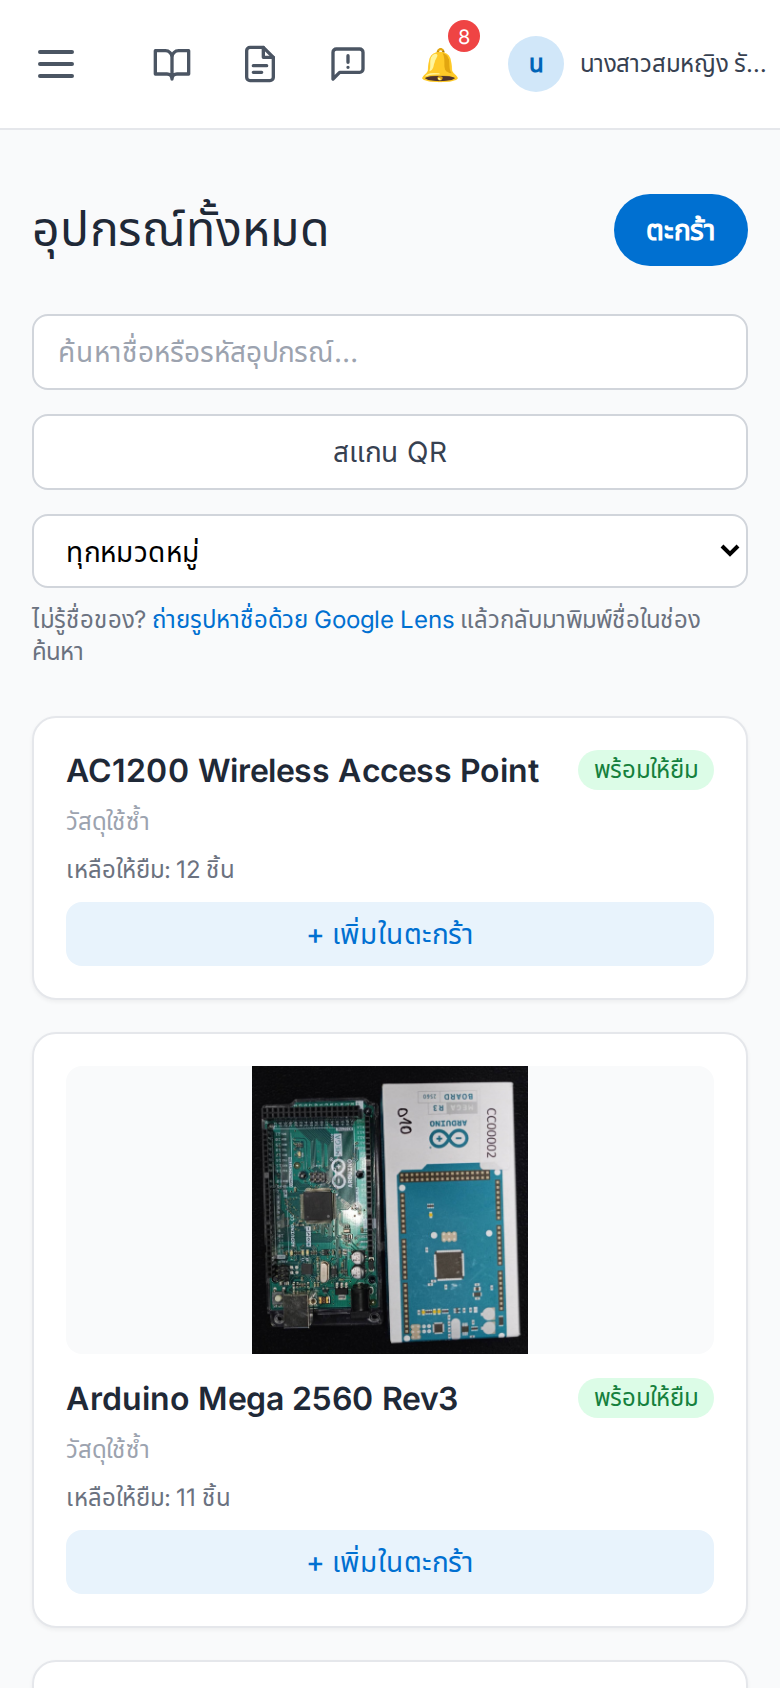
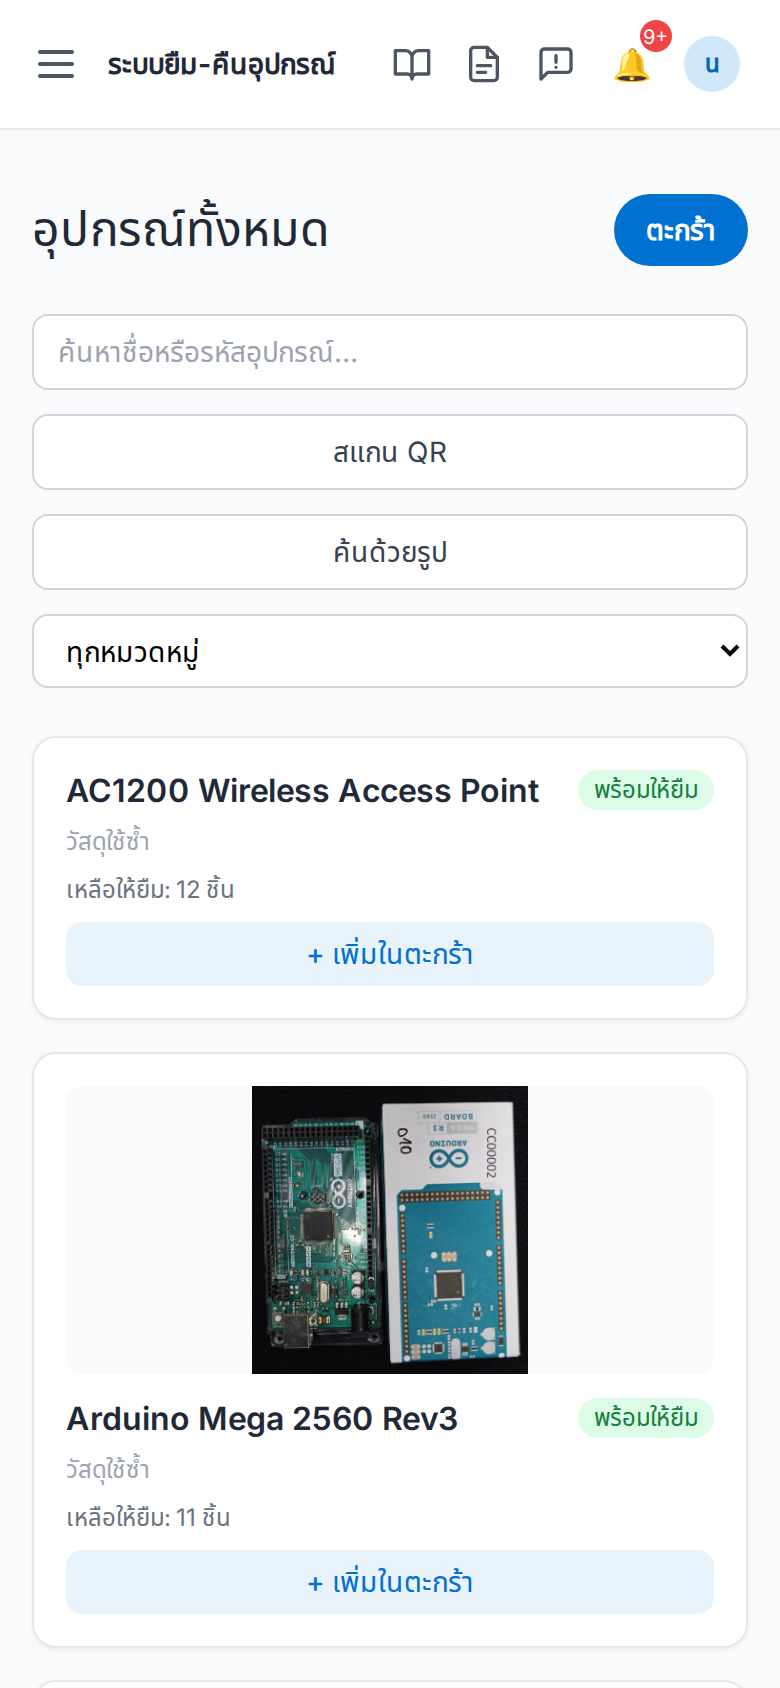
docs(manual): หัวข้อค้นด้วยรูปในคู่มือผู้ยืม + ภาพหน้ารายการอุปกรณ์ใหม่ · ตัดขีดยาวในข้อความหน้าต่างค้นด้วยรูป
Claude-Session: https://claude.ai/code/session_011g6Psu82xey8mGRJvxNfKM

diff --git a/frontend/public/manual/borrower.html b/frontend/public/manual/borrower.html
@@ -100,13 +100,20 @@ h2, h3 { break-after: avoid; }
 <li>ชื่อบัญชี กดเพื่อเปิดหน้าโปรไฟล์</li></ul>
 <p>บนมือถือเมนูถูกซ่อนไว้ ให้กดปุ่มสามขีดที่มุมซ้ายบนเพื่อเปิดเมนู</p></div>
 </section><section class="sec" id="s5"><h2>5. ค้นหาและดูรายละเอียดอุปกรณ์</h2>
-<div class="keep"><p>เมนู <b>อุปกรณ์</b> แสดงอุปกรณ์ทั้งหมดที่ยืมได้ หาของที่ต้องการได้ 3 วิธี</p>
+<div class="keep"><p>เมนู <b>อุปกรณ์</b> แสดงอุปกรณ์ทั้งหมดที่ยืมได้ หาของที่ต้องการได้ดังนี้</p>
 <ol><li>พิมพ์ชื่อ รุ่น รหัสอุปกรณ์ หรือเลขห้องในช่องค้นหา หรือเลือกหมวดหมู่และประเภทเพื่อกรองรายการ</li>
 <li>กดปุ่ม <b>สแกน QR</b> แล้วใช้กล้องมือถือสแกนป้าย QR ที่ติดอยู่บนตัวอุปกรณ์ ระบบจะเปิดหน้าของอุปกรณ์ชิ้นนั้นให้ทันที
 (ถ้ากล้องไม่เปิด ดูหัวข้อ 12)</li>
+<li>ถ้าไม่รู้ชื่อของ กดปุ่ม <b>ค้นด้วยรูป</b> แล้วกด <b>ถ่ายรูป</b> หรือ <b>เลือกรูปจากเครื่อง</b> ระบบจะขึ้น 5 รุ่นในคลังที่ใกล้เคียงที่สุด
+เรียงจากใกล้สุด กดรุ่นที่ใช่เพื่อเปิดหน้ารายละเอียด ถ้าไม่มีรุ่นไหนตรงเลย ของชิ้นนั้นอาจไม่มีในคลัง
+ระบบใช้รูปที่ถ่ายเพื่อค้นหาอย่างเดียวและไม่เก็บไว้</li>
 <li>กดที่ชื่อหรือรูปอุปกรณ์เพื่อเปิดหน้ารายละเอียด ซึ่งบอกจำนวนที่ยังเหลือให้ยืม ห้องที่เก็บ
 ค่าปรับต่อวันถ้าคืนช้า และถ้ามีคนยืมอยู่ จะบอกว่าจะคืนวันไหน</li></ol></div>
 <figure><a href="img/b05_equipment_list.webp" target="_blank" title="กดเพื่อดูภาพขนาดเต็ม"><img src="img/b05_equipment_list.webp"></a><figcaption>หน้ารายการอุปกรณ์ กรอบแดงคือปุ่มเพิ่มลงตะกร้า</figcaption></figure>
+<div class="keep"><h3>ค้นด้วยรูป</h3>
+<figure><a href="img/b05c_image_search_result.webp" target="_blank" title="กดเพื่อดูภาพขนาดเต็ม"><img src="img/b05c_image_search_result.webp" style="max-height:140mm"></a><figcaption>ผลค้นด้วยรูป 5 รุ่นที่ใกล้เคียงที่สุด กดรุ่นที่ใช่เพื่อดูรายละเอียด</figcaption></figure>
+<p class="tip">ถ่ายให้เห็นของทั้งชิ้นชัด ๆ บนพื้นหลังโล่ง ผลจะแม่นขึ้น ระบบเดาจากหน้าตาและชื่อรุ่นในคลัง จึงผิดได้บ้าง
+ก่อนกดยืมให้ตรวจชื่อรุ่นในหน้ารายละเอียดทุกครั้ง</p></div>
 <figure><a href="img/b06_equipment_detail.webp" target="_blank" title="กดเพื่อดูภาพขนาดเต็ม"><img src="img/b06_equipment_detail.webp"></a><figcaption>หน้ารายละเอียดอุปกรณ์ แสดงจำนวนคงเหลือ ที่เก็บ ค่าปรับต่อวัน และผู้ที่กำลังยืม</figcaption></figure>
 </section><section class="sec" id="s6"><h2>6. ยื่นคำขอยืม และลงชื่อใบยืม</h2>
 <div class="keep"><p>การยืมทำผ่านตะกร้า เลือกได้หลายชิ้นในคำขอเดียว (สูงสุด 5 รายการต่อใบ)</p>

diff --git a/docs/manual/คู่มือผู้ยืม.html b/docs/manual/คู่มือผู้ยืม.html
@@ -100,13 +100,20 @@ h2, h3 { break-after: avoid; }
 <li>ชื่อบัญชี กดเพื่อเปิดหน้าโปรไฟล์</li></ul>
 <p>บนมือถือเมนูถูกซ่อนไว้ ให้กดปุ่มสามขีดที่มุมซ้ายบนเพื่อเปิดเมนู</p></div>
 </section><section class="sec" id="s5"><h2>5. ค้นหาและดูรายละเอียดอุปกรณ์</h2>
-<div class="keep"><p>เมนู <b>อุปกรณ์</b> แสดงอุปกรณ์ทั้งหมดที่ยืมได้ หาของที่ต้องการได้ 3 วิธี</p>
+<div class="keep"><p>เมนู <b>อุปกรณ์</b> แสดงอุปกรณ์ทั้งหมดที่ยืมได้ หาของที่ต้องการได้ดังนี้</p>
 <ol><li>พิมพ์ชื่อ รุ่น รหัสอุปกรณ์ หรือเลขห้องในช่องค้นหา หรือเลือกหมวดหมู่และประเภทเพื่อกรองรายการ</li>
 <li>กดปุ่ม <b>สแกน QR</b> แล้วใช้กล้องมือถือสแกนป้าย QR ที่ติดอยู่บนตัวอุปกรณ์ ระบบจะเปิดหน้าของอุปกรณ์ชิ้นนั้นให้ทันที
 (ถ้ากล้องไม่เปิด ดูหัวข้อ 12)</li>
+<li>ถ้าไม่รู้ชื่อของ กดปุ่ม <b>ค้นด้วยรูป</b> แล้วกด <b>ถ่ายรูป</b> หรือ <b>เลือกรูปจากเครื่อง</b> ระบบจะขึ้น 5 รุ่นในคลังที่ใกล้เคียงที่สุด
+เรียงจากใกล้สุด กดรุ่นที่ใช่เพื่อเปิดหน้ารายละเอียด ถ้าไม่มีรุ่นไหนตรงเลย ของชิ้นนั้นอาจไม่มีในคลัง
+ระบบใช้รูปที่ถ่ายเพื่อค้นหาอย่างเดียวและไม่เก็บไว้</li>
 <li>กดที่ชื่อหรือรูปอุปกรณ์เพื่อเปิดหน้ารายละเอียด ซึ่งบอกจำนวนที่ยังเหลือให้ยืม ห้องที่เก็บ
 ค่าปรับต่อวันถ้าคืนช้า และถ้ามีคนยืมอยู่ จะบอกว่าจะคืนวันไหน</li></ol></div>
 <figure><a href="img/b05_equipment_list.png" target="_blank" title="กดเพื่อดูภาพขนาดเต็ม"><img src="img/b05_equipment_list.png"></a><figcaption>หน้ารายการอุปกรณ์ กรอบแดงคือปุ่มเพิ่มลงตะกร้า</figcaption></figure>
+<div class="keep"><h3>ค้นด้วยรูป</h3>
+<figure><a href="img/b05c_image_search_result.png" target="_blank" title="กดเพื่อดูภาพขนาดเต็ม"><img src="img/b05c_image_search_result.png" style="max-height:140mm"></a><figcaption>ผลค้นด้วยรูป 5 รุ่นที่ใกล้เคียงที่สุด กดรุ่นที่ใช่เพื่อดูรายละเอียด</figcaption></figure>
+<p class="tip">ถ่ายให้เห็นของทั้งชิ้นชัด ๆ บนพื้นหลังโล่ง ผลจะแม่นขึ้น ระบบเดาจากหน้าตาและชื่อรุ่นในคลัง จึงผิดได้บ้าง
+ก่อนกดยืมให้ตรวจชื่อรุ่นในหน้ารายละเอียดทุกครั้ง</p></div>
 <figure><a href="img/b06_equipment_detail.png" target="_blank" title="กดเพื่อดูภาพขนาดเต็ม"><img src="img/b06_equipment_detail.png"></a><figcaption>หน้ารายละเอียดอุปกรณ์ แสดงจำนวนคงเหลือ ที่เก็บ ค่าปรับต่อวัน และผู้ที่กำลังยืม</figcaption></figure>
 </section><section class="sec" id="s6"><h2>6. ยื่นคำขอยืม และลงชื่อใบยืม</h2>
 <div class="keep"><p>การยืมทำผ่านตะกร้า เลือกได้หลายชิ้นในคำขอเดียว (สูงสุด 5 รายการต่อใบ)</p>

diff --git a/frontend/src/components/equipment/ImageSearchModal.jsx b/frontend/src/components/equipment/ImageSearchModal.jsx
@@ -82,7 +82,7 @@ export default function ImageSearchModal({ onClose }) {
           <p className="text-sm text-gray-600">ไม่พบรุ่นที่ใกล้เคียง</p>
         ) : (
           <div className="space-y-2">
-            <p className="text-xs text-gray-500">รุ่นที่ใกล้เคียงที่สุด (เรียงจากใกล้สุด) — ระบบเดาจากรูป อาจไม่ตรงทุกครั้ง</p>
+            <p className="text-xs text-gray-500">รุ่นที่ใกล้เคียงที่สุด เรียงจากใกล้สุด ระบบเดาจากรูปจึงอาจไม่ตรงทุกครั้ง</p>
             {results.map((r) => (
               <Link key={r.equipment_id} to={`/equipment/${r.equipment_id}`} onClick={onClose}
                 className="flex items-center gap-3 rounded-lg border border-gray-200 p-2 hover:bg-gray-50">
